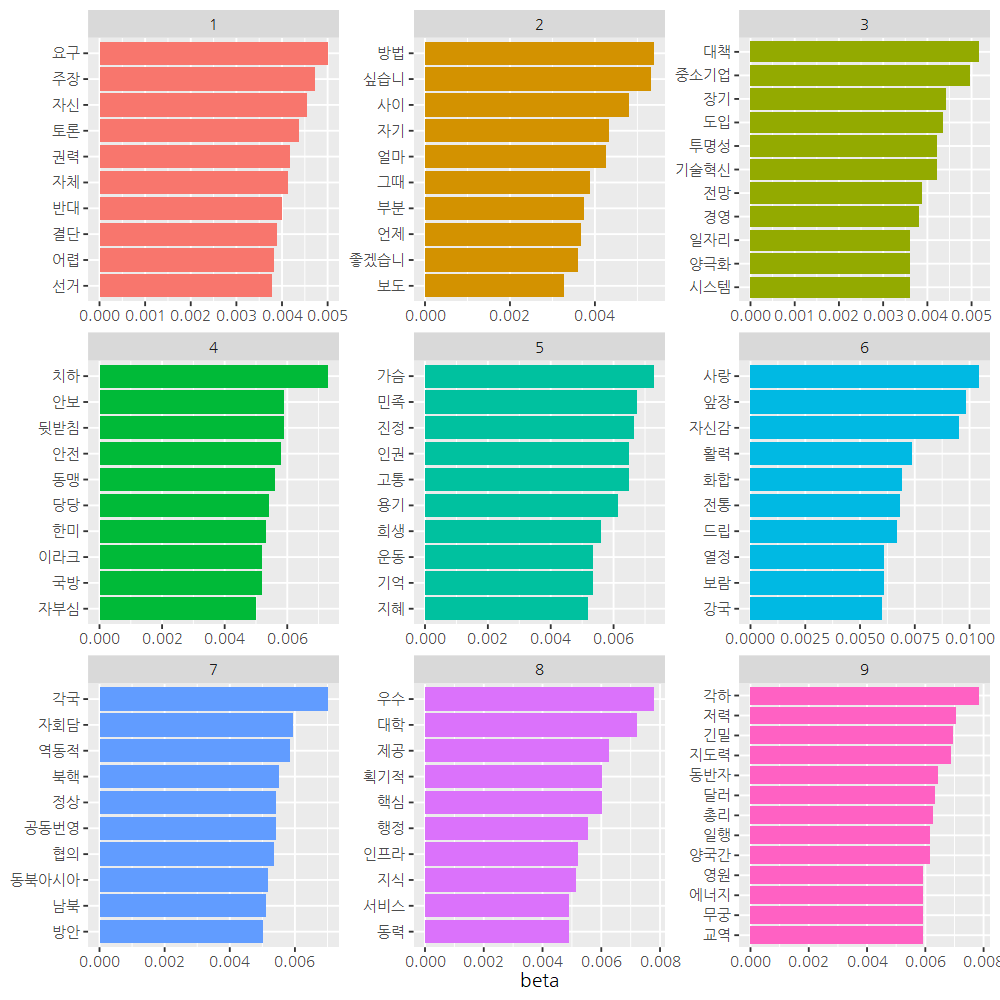
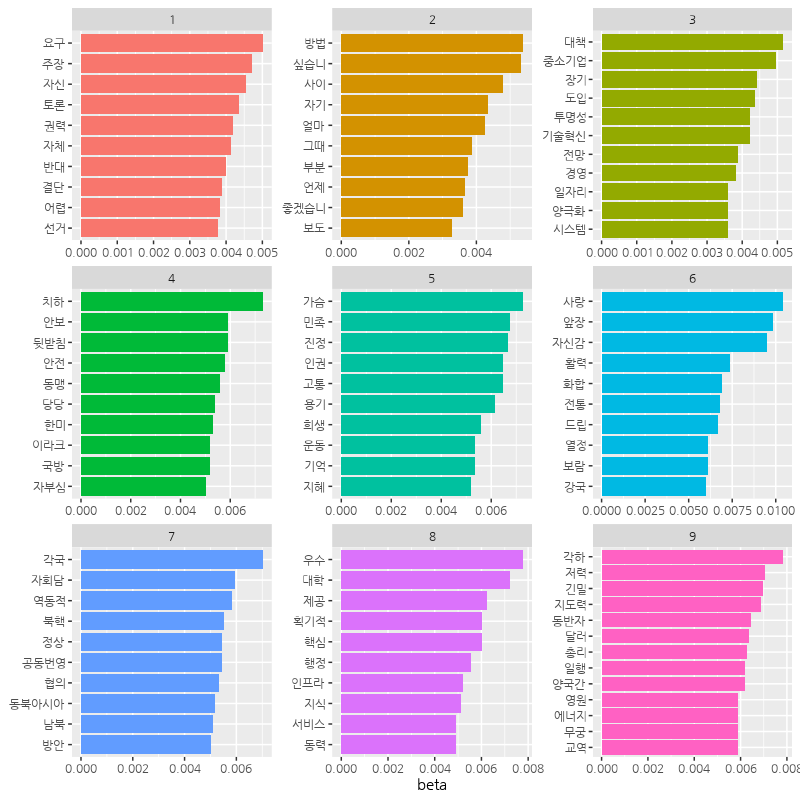
img resize

diff --git a/Quiz/Quiz_Part06.md b/Quiz/Quiz_Part06.md
@@ -212,7 +212,7 @@ ggplot(top_term_topic,
   labs(x = NULL)
 ```
 
-<img src="img/Q6_8.png" width="800">
+![](img/Q6_8.png)
 
 ------------------------------------------------------------------------
 
